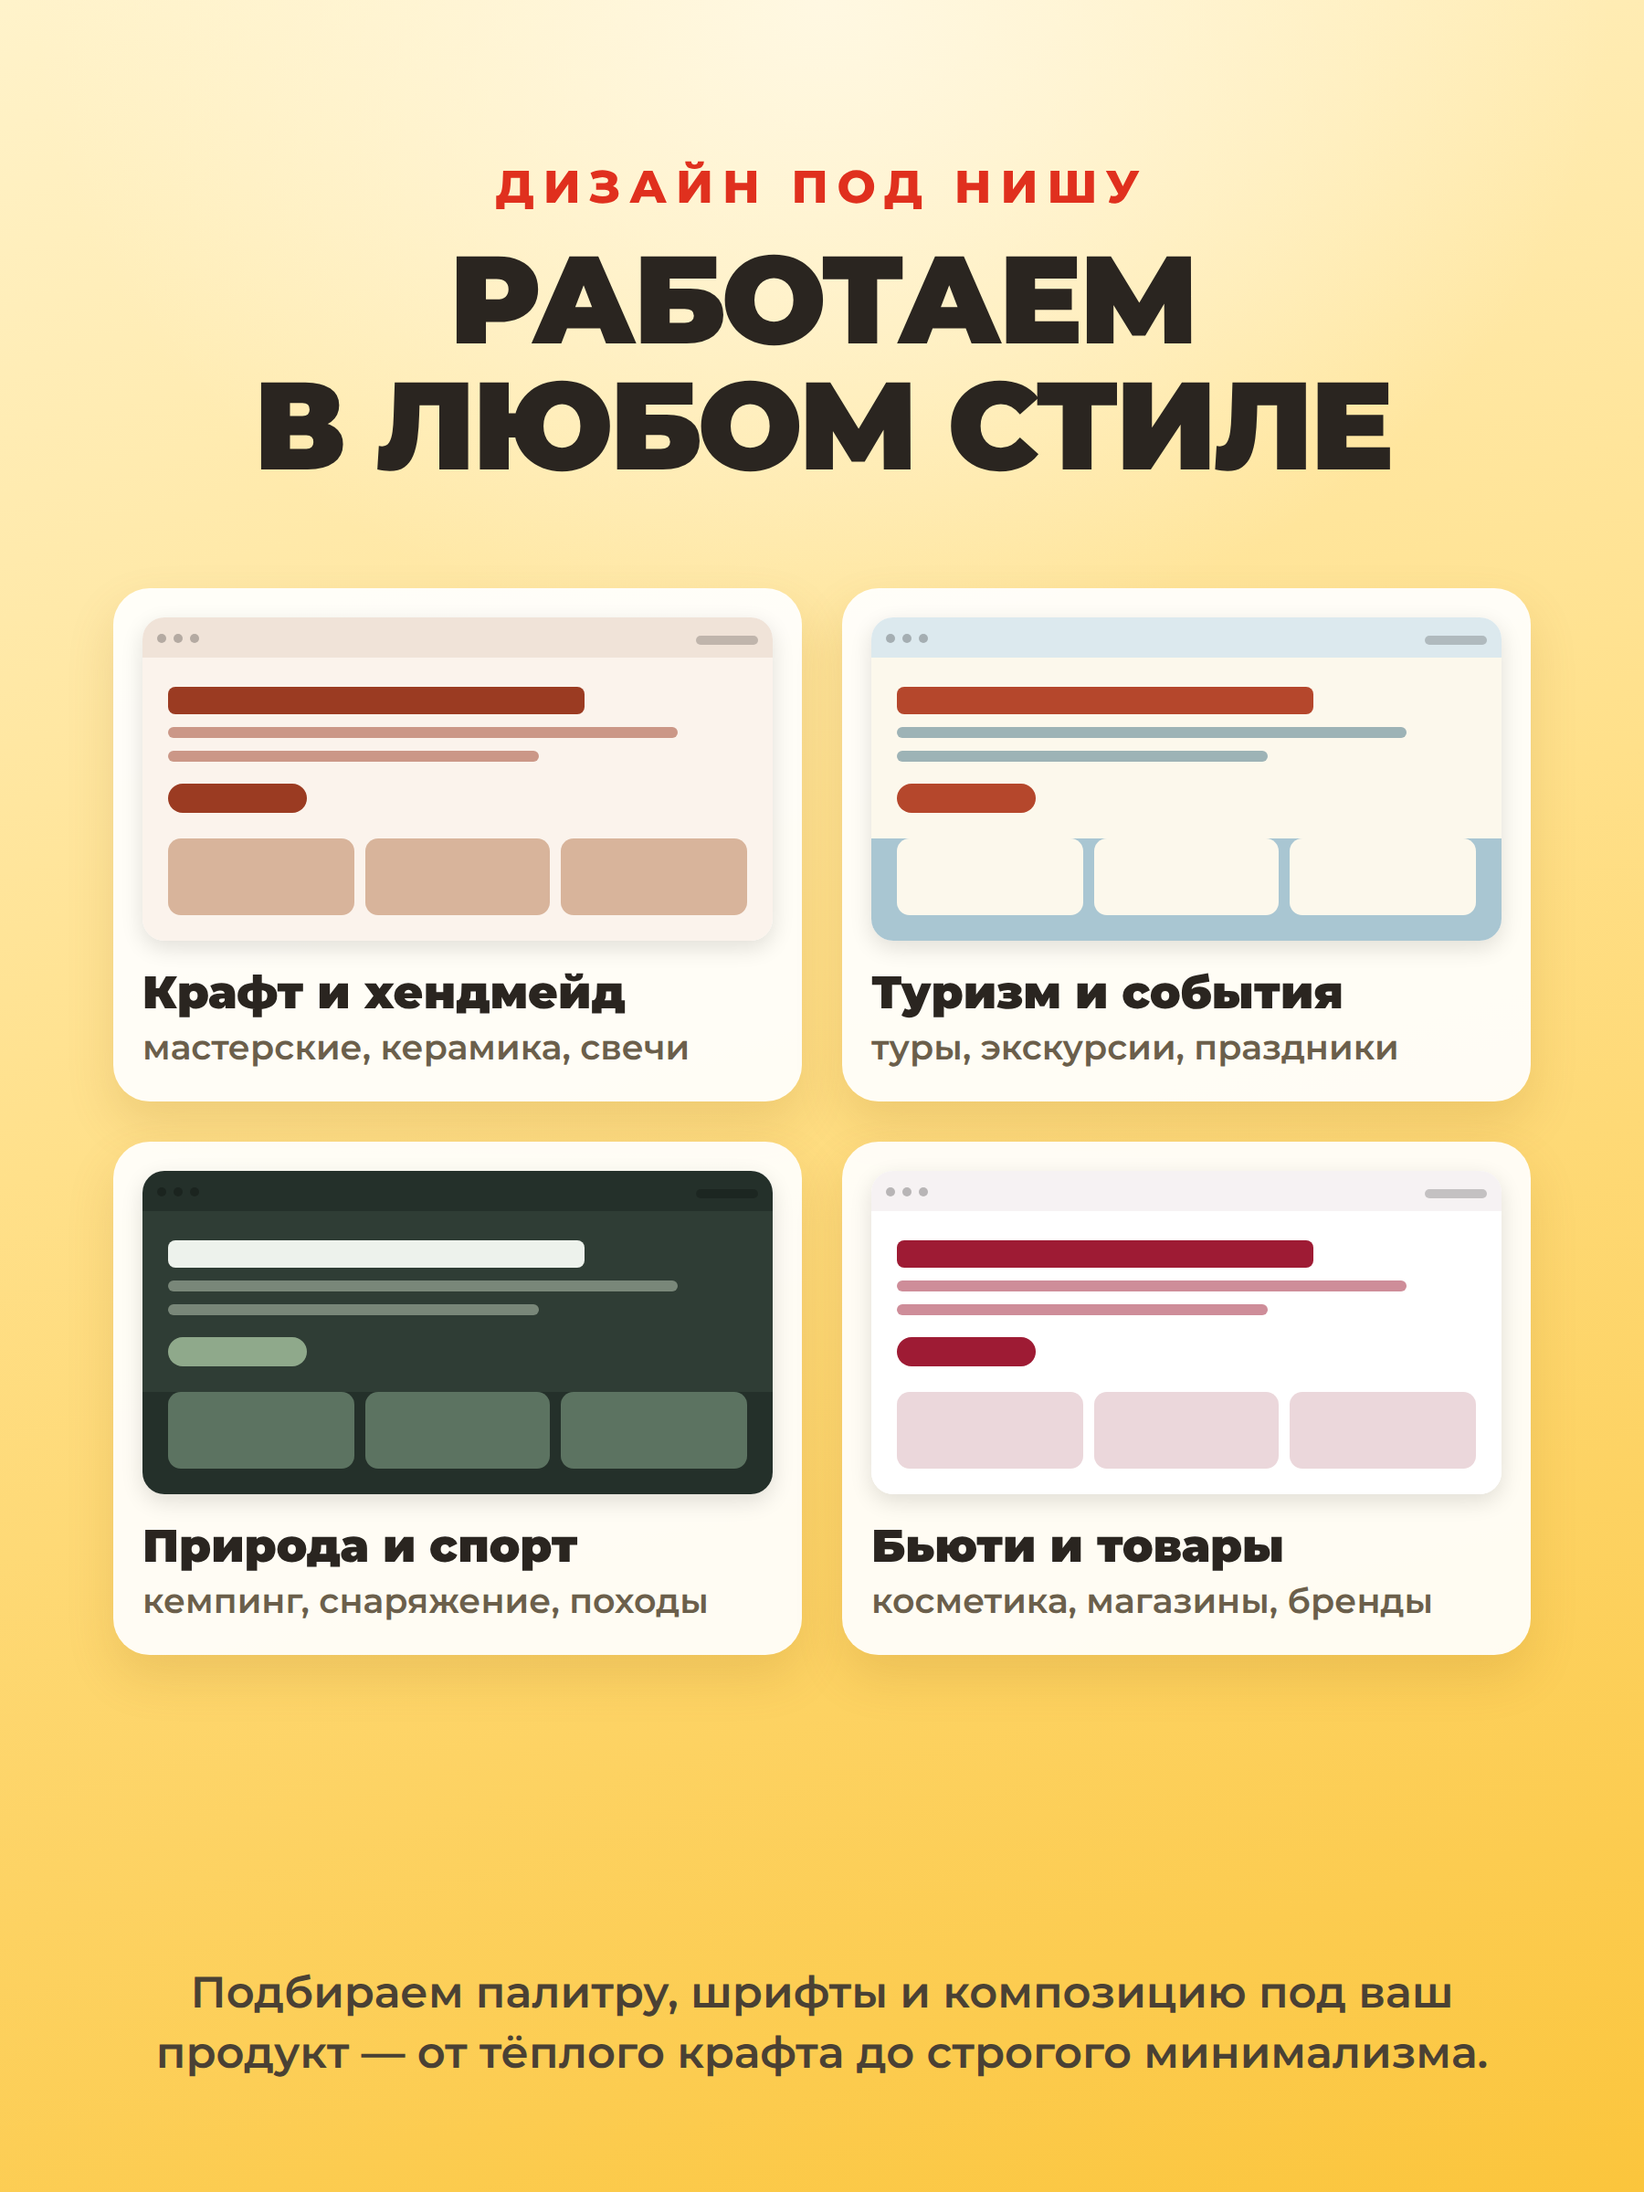
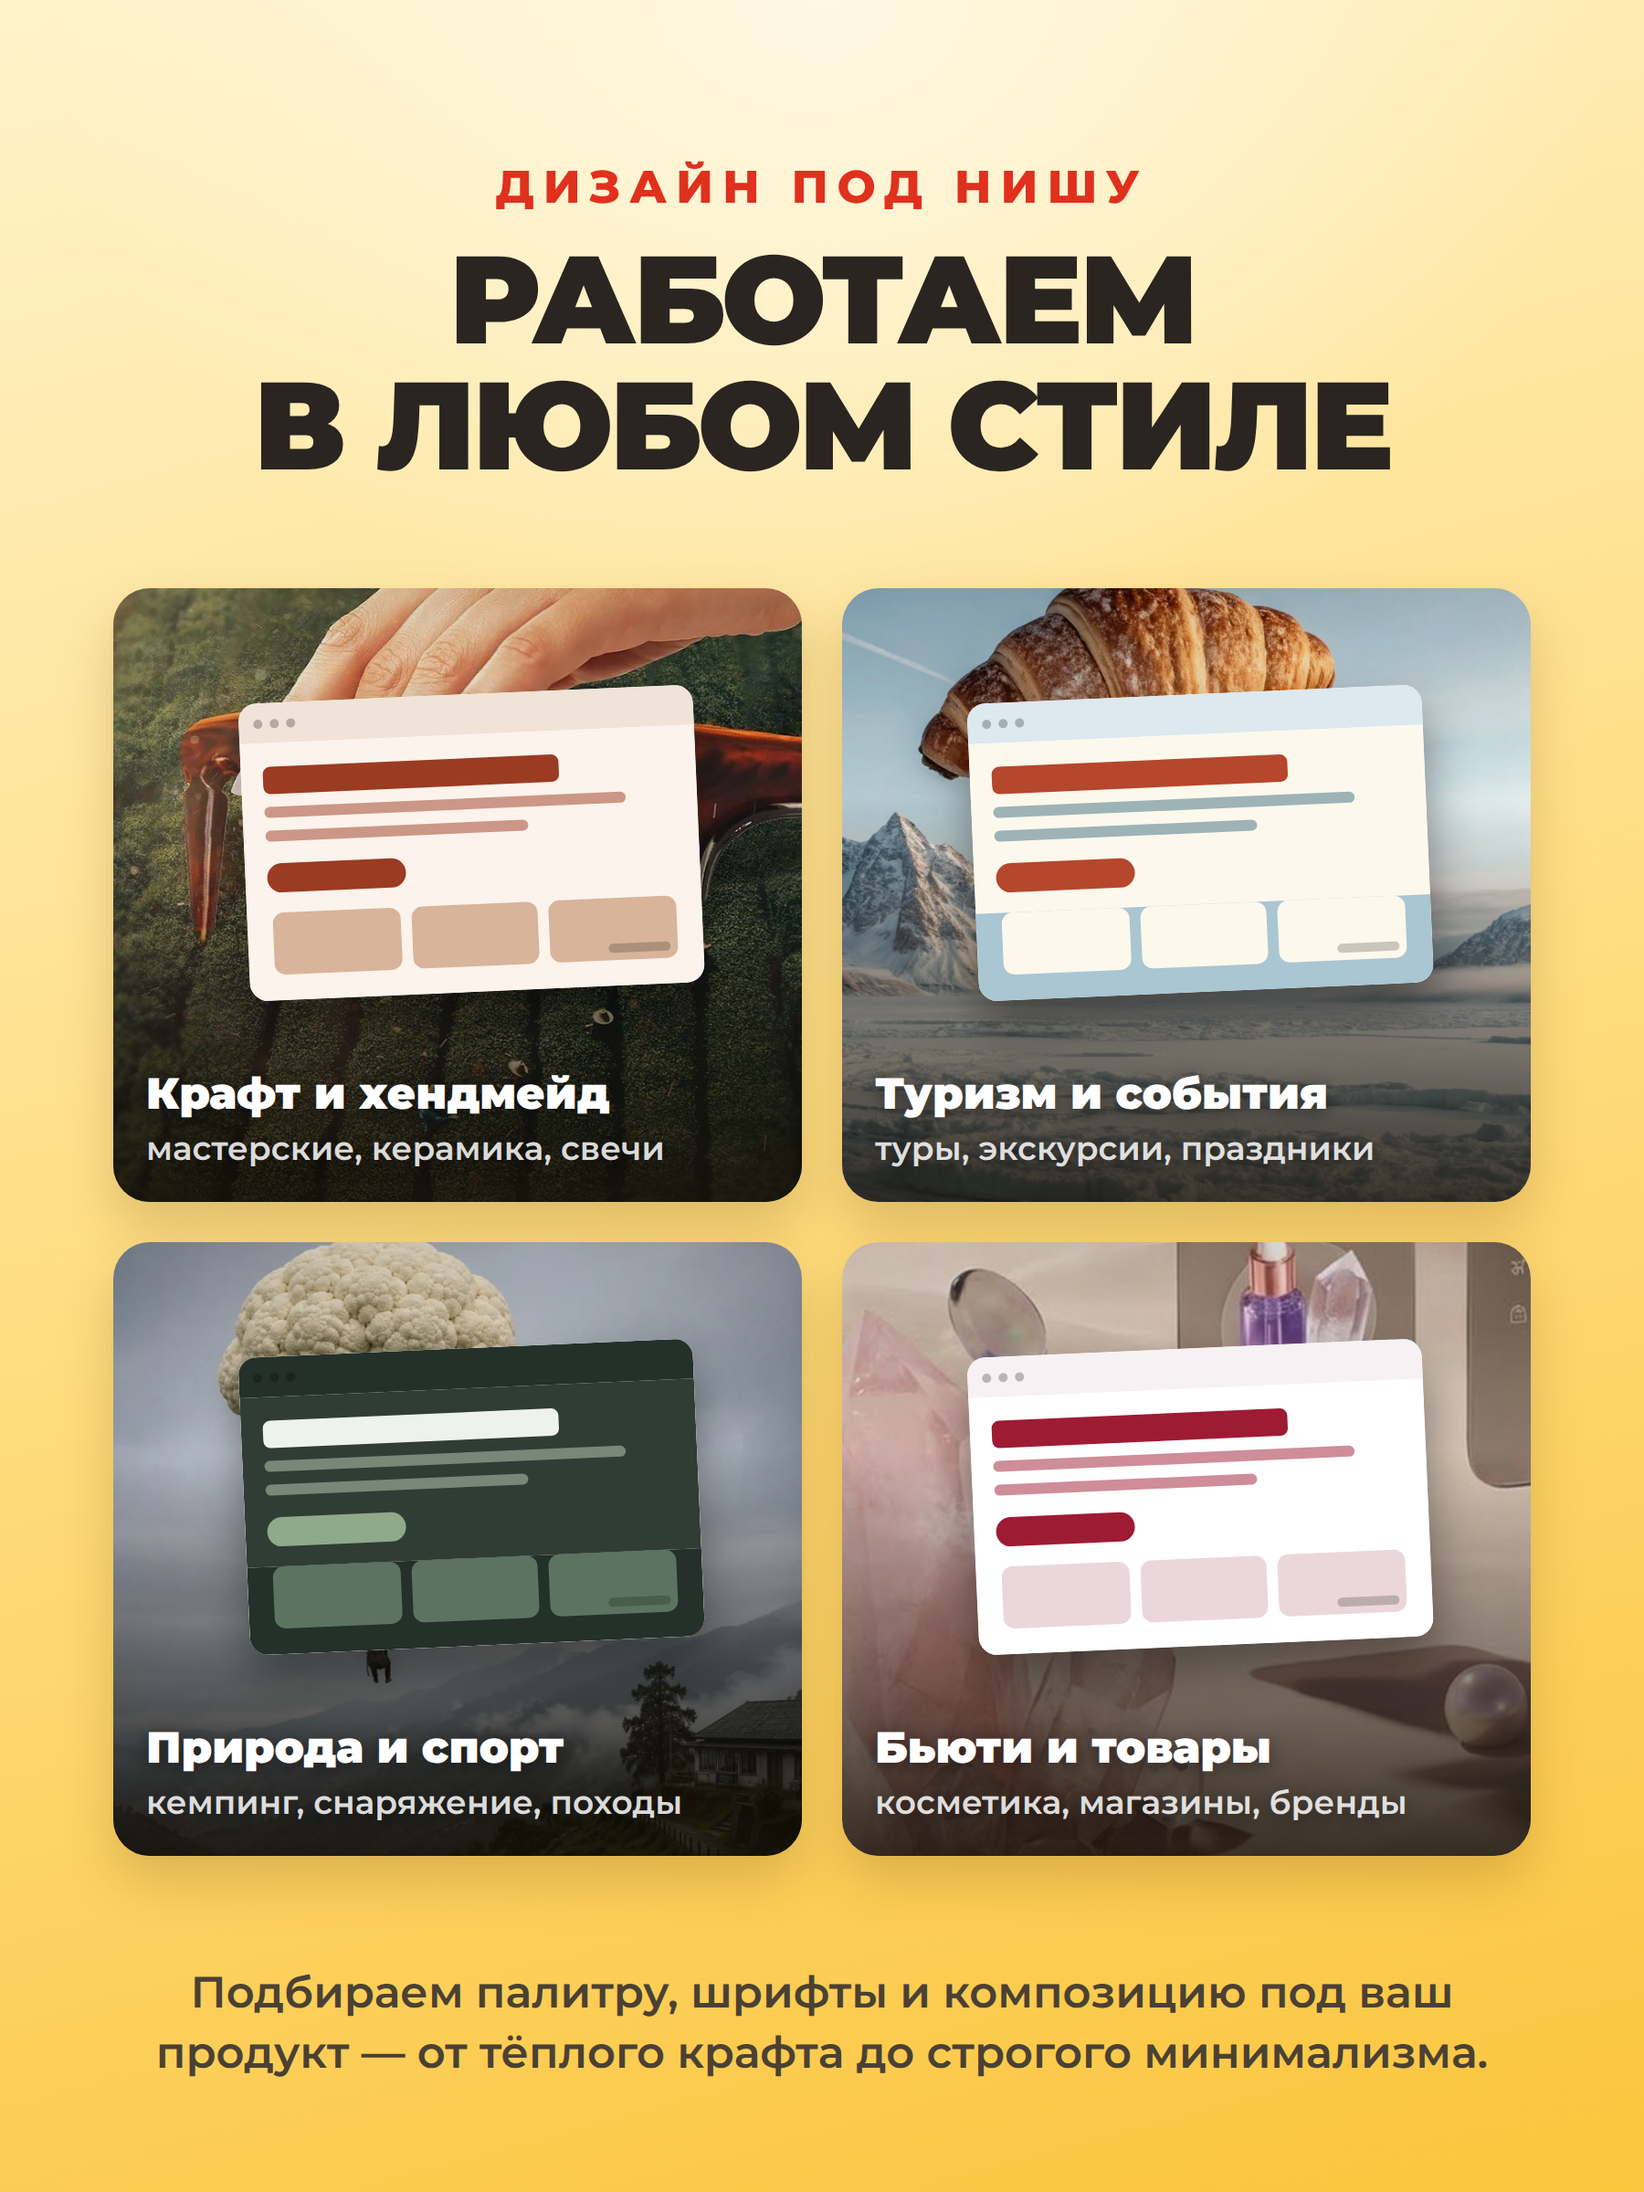
Set the style cards on niche photography
Each card now carries a mood photo behind its mockup, with the captions
over a bottom scrim, so the slide reads as design in context. The beauty
frame is cropped past the foreign wordmark and product prices.

Claude-Session: https://claude.ai/code/session_017LcbuXHN7h3FiT7QLFYxQe

diff --git a/avito/styles.css b/avito/styles.css
@@ -742,27 +742,69 @@ p.small { font-size: 26px; line-height: 1.45; }
 }
 
 .style-card {
-  background: rgba(255,255,255,.92);
+  position: relative;
+  height: 336px;
   border-radius: 20px;
-  padding: 16px 16px 18px;
-  box-shadow: 0 12px 26px rgba(150,100,20,.16);
+  overflow: hidden;
+  background-size: cover;
+  background-position: center;
+  box-shadow: 0 14px 28px rgba(120,80,20,.24);
 }
-.style-card b { display: block; margin-top: 14px; font-size: 25px; font-weight: 900; color: var(--ink); }
-.style-card span { display: block; margin-top: 3px; font-size: 19px; font-weight: 600; color: #6B5F4B; }
+.style-card::after {
+  content: '';
+  position: absolute;
+  inset: 0;
+  background: linear-gradient(180deg, rgba(20,14,6,.12) 0%, rgba(20,14,6,0) 34%, rgba(20,14,6,.82) 100%);
+}
+.style-card b {
+  position: absolute;
+  left: 18px; right: 18px; bottom: 44px;
+  z-index: 2;
+  font-size: 24px;
+  font-weight: 900;
+  color: #fff;
+  text-shadow: 0 2px 10px rgba(0,0,0,.5);
+}
+.style-card span {
+  position: absolute;
+  left: 18px; right: 18px; bottom: 18px;
+  z-index: 2;
+  font-size: 18px;
+  font-weight: 600;
+  color: rgba(255,255,255,.85);
+  text-shadow: 0 2px 10px rgba(0,0,0,.5);
+}
+
+/* фотографии ниш */
+.st-clay   { background-image: url(assets/style-craft.jpg); background-position: center 40%; }
+.st-retro  { background-image: url(assets/style-travel.jpg); }
+.st-wild   { background-image: url(assets/style-nature.jpg); }
+.st-beauty { background-image: url(assets/style-beauty.jpg); background-size: 205%; background-position: 8% 96%; }
 
 /* миниатюра сайта */
-.mini { border-radius: 12px; overflow: hidden; background: #fff; box-shadow: 0 4px 12px rgba(0,0,0,.12); }
+.mini {
+  position: absolute;
+  left: 52%;
+  top: 58px;
+  transform: translateX(-50%) rotate(-2.5deg);
+  width: 66%;
+  z-index: 2;
+  border-radius: 10px;
+  overflow: hidden;
+  background: #fff;
+  box-shadow: 0 14px 26px rgba(0,0,0,.42);
+}
 .mini-bar { height: 22px; display: flex; align-items: center; gap: 4px; padding: 0 8px; }
 .mini-bar i { width: 5px; height: 5px; border-radius: 50%; background: rgba(0,0,0,.25); }
 .mini-bar span { margin-left: auto; width: 34px; height: 5px; border-radius: 3px; background: rgba(0,0,0,.2); }
-.mini-hero { padding: 16px 14px 14px; }
+.mini-hero { padding: 13px 12px 11px; }
 .mini-title { height: 15px; width: 72%; border-radius: 4px; }
 .mini-line { height: 6px; border-radius: 3px; margin-top: 7px; opacity: .5; }
 .mini-line.l1 { width: 88%; }
 .mini-line.l2 { width: 64%; }
 .mini-btn { height: 16px; width: 76px; border-radius: 8px; margin-top: 12px; }
 .mini-row { display: grid; grid-template-columns: repeat(3, 1fr); gap: 6px; padding: 0 14px 14px; }
-.mini-row div { height: 42px; border-radius: 7px; }
+.mini-row div { height: 34px; border-radius: 6px; }
 
 /* палитры ниш */
 .st-clay   .mini-bar { background: #F0E3D8; }

diff --git a/avito/README.md b/avito/README.md
@@ -25,7 +25,7 @@
 | 06 | `06-deadline-akciya.png` | Срок акции, цена и «сайт за 2 дня» | рука с подносом |
 | 07 | `07-zvezda-razrez.png` | «Делаем на пять» — между половинками звезды что входит в сайт | звезда, разрезанная пополам |
 | 08 | `08-etapy-raboty.png` | Четыре шага до запуска | нумерованный список |
-| 09 | `09-stili-dizayna.png` | «Работаем в любом стиле» — четыре ниши | свои мини-макеты сайтов |
+| 09 | `09-stili-dizayna.png` | «Работаем в любом стиле» — четыре ниши | фото ниш + свои мини-макеты |
 | 10 | `10-final-cta.png` | Консультация бесплатна, цена, срок акции | веер работ |
 
 Цена и срок стоят только на трёх слайдах — 01, 06 и 10; остальные несут свои сообщения,
@@ -107,9 +107,10 @@ node avito/tools/cutout-drip.mjs <src> <out.png>
 ### Про чужие работы в портфолио
 Скриншоты чужих сайтов и макетов (в том числе найденные на Behance, Pinterest и в подборках)
 нельзя показывать как свои работы: автор вправе потребовать снять объявление, а клиент,
-заметив несовпадение, теряет доверие. Слайд `stili-dizayna` поэтому собран на собственных
-мини-макетах — они показывают палитру и композицию, ничего не присваивая.
-Как только появятся свои готовые проекты, замените их скриншотами реальных работ.
+заметив несовпадение, теряет доверие. Слайд `stili-dizayna` поэтому собран на собственных мини-макетах — они показывают палитру
+и композицию, ничего не присваивая. Фотографии под ними (`assets/style-*.jpg`) работают как
+фон-настроение ниши, а не как портфолио. Как только появятся свои готовые проекты, замените
+мини-макеты скриншотами реальных работ — верстка слайда этого не заметит.
 
 ### Что стоит подставить своё
 - Цену и срок акции — в `posters.html` (слайды `cover` и `final-cta`).
